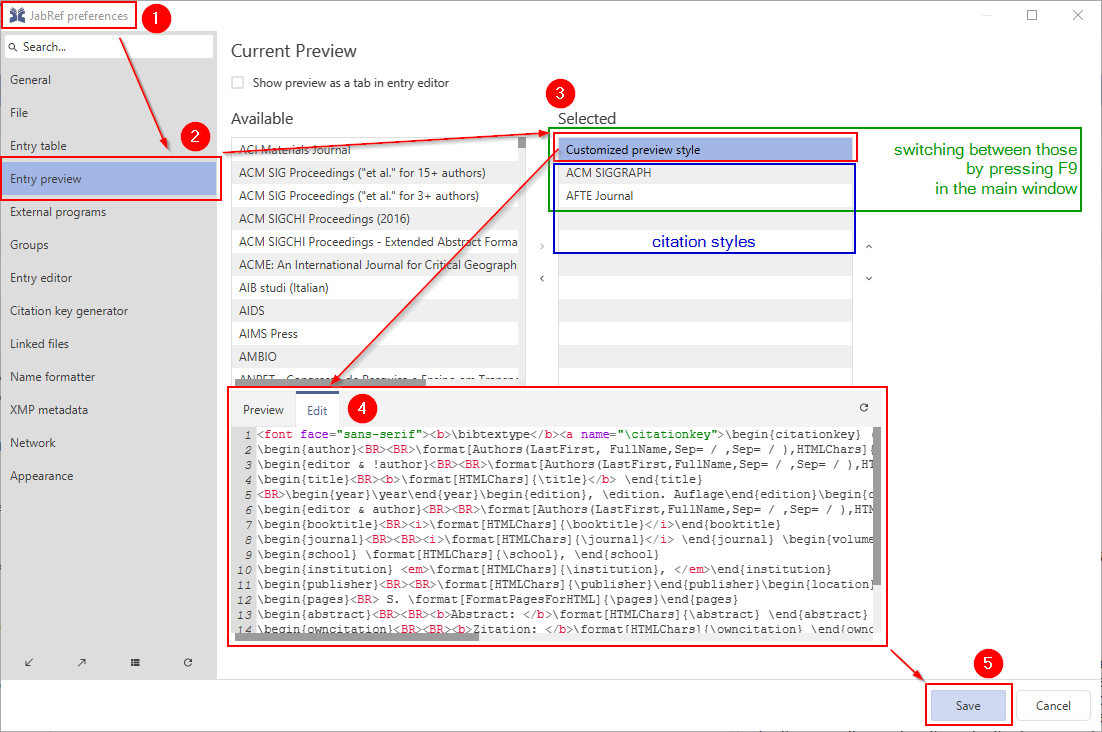
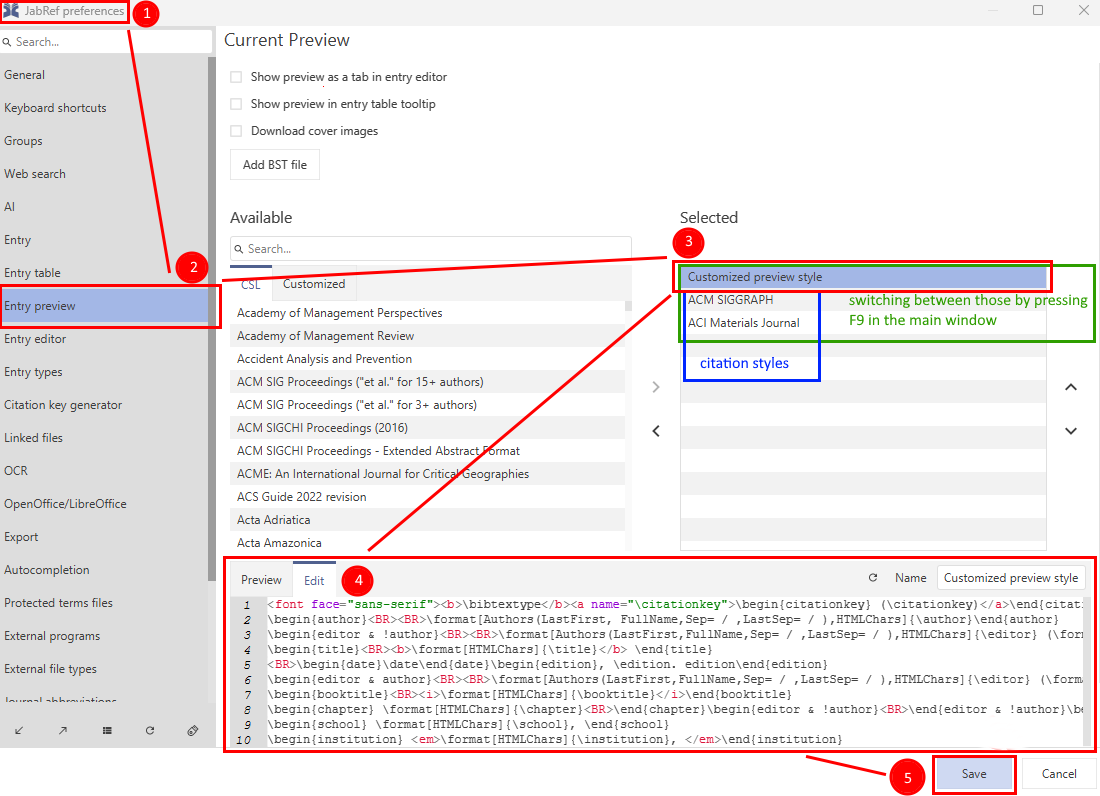
[#16075] Update image to current Entry Preview UI and add preview documentation to support add, delete, and rename custom styles

diff --git a/en/setup/preview.md b/en/setup/preview.md
@@ -23,3 +23,13 @@ The layout is automatically created using the same mechanism as used by the [Cus
 ## Modification of the Customized Preview Style
 
 To customize the appearance and contents of the customize entry preview you need to edit/modify the customized preview style in the entry preview settings (see screenshot above) using the custom export filter syntax described in the [Documentation](../collaborative-work/export/customexports.md).
+
+## Add or Delete Customized Preview Styles
+
+![Entry Preview Settings](../.gitbook/assets/entryeditor-preview-settings-customized-tab.png)
+
+To add a custom preview style `Options → Preferences → Entry preview → Customized Tab → '+' (add button)`. To delete a custom preview style, `Options → Preferences → Entry preview → Customized Tab → Select custom style  under the 'Customized' tab → '-' (delete button)`. Note that you can only add or delete custom styles under the 'Customized' tab.
+
+## Rename Customized Preview Styles
+
+To rename a custom preview style `Options → Preferences → Entry preview → Customized Tab → Under this tab, select custom style to rename → 'Name' text box -> Type name → Hit 'Enter'` Note you may only rename styles under the 'Customized' Tab. Duplicate names are not allowed
